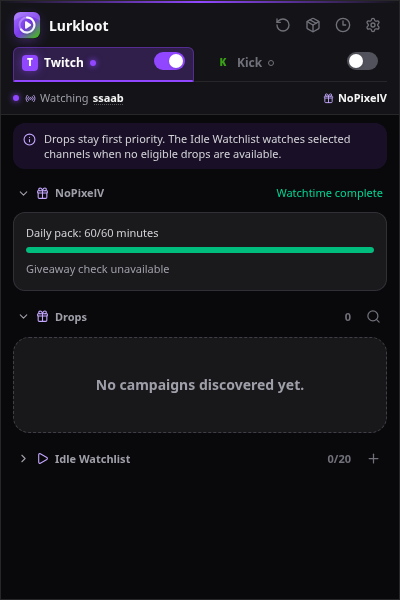
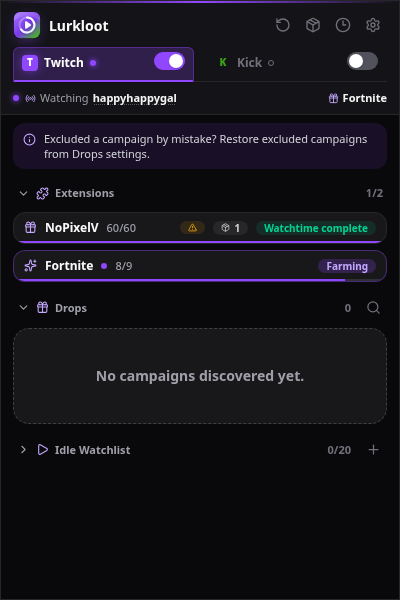
fix(twitch-extensions): bound completion reprobes and retain pack retries

diff --git a/packages/extension/src/extensions/host.ts b/packages/extension/src/extensions/host.ts
@@ -19,12 +19,10 @@ export function createTwitchExtensionHost(options: {
   let generation = 0;
   const allowed = new Set<TwitchExtensionProviderId>();
   const completedUntil = new Map<TwitchExtensionProviderId, number>();
-  // Providers observed complete for this viewer. Unlike the short reprobe
-  // cooldown and the per-channel summaries, this survives ordinary authority
-  // changes (Twitch toggles, pauses, channel switches) so a finished provider
-  // is never revisited just to rediscover completion and then released again.
-  // Only logout, provider disable/revocation and reset forget it.
-  const knownComplete = new Set<TwitchExtensionProviderId>();
+  // Retain completion through ordinary transitions, but allow a bounded
+  // reprobe so new packs/giveaways and daily resets cannot be starved by the
+  // other provider. Thirty minutes avoids switching on every scheduler tick.
+  const knownComplete = new Map<TwitchExtensionProviderId, number>();
   let lastCompletedNoPixelChannel: string | undefined;
   const summaries: Partial<Record<TwitchExtensionProviderId, TwitchExtensionSummary>> = {};
   let channel: { username: string; displayName?: string } | undefined;
@@ -35,8 +33,16 @@ export function createTwitchExtensionHost(options: {
     report: (id, report) => {
       const previous = summaries[id];
       if (id === "nopixel" && report.status === "complete" && channel) lastCompletedNoPixelChannel = channel.username;
-      if (report.status === "complete") knownComplete.add(id);
-      else if (report.status === "farming" && report.progress.some((progress) => progress.earned < progress.required)) knownComplete.delete(id);
+      if (report.status === "complete") {
+        const now = options.source.now();
+        const nextDay = (Math.floor(now / 86_400_000) + 1) * 86_400_000;
+        knownComplete.set(id, id === "nopixel" ? Math.min(now + 30 * 60_000, nextDay) : now + 30 * 60_000);
+      } else if (report.status === "farming") knownComplete.delete(id);
+      else if ((report.status === "error" || report.status === "unavailable") && knownComplete.has(id)) {
+        // A failed due reprobe consumes its turn too; it must not repeatedly
+        // evict another earning provider while walking unavailable channels.
+        knownComplete.set(id, options.source.now() + 30 * 60_000);
+      }
       if (report.status === "complete" && (completedUntil.get(id) ?? 0) <= options.source.now()) completedUntil.set(id, options.source.now() + 5 * 60_000);
       summaries[id] = { ...report, ...(channel ? { channel: { ...channel } } : {}), updatedAt: new Date(options.source.now()).toISOString() };
       if ((report.status === "error" || report.status === "unavailable")
@@ -75,9 +81,14 @@ export function createTwitchExtensionHost(options: {
     const session = state.sessions.twitch;
     const holderId = session.status === "watching" ? session.supplementalWatch?.id : undefined;
     const holderSummary = holderId ? summaries[holderId as TwitchExtensionProviderId] : undefined;
-    const holderEarning = holderId !== undefined && !knownComplete.has(holderId as TwitchExtensionProviderId)
+    const nowForRanking = options.source.now();
+    const holderEarning = holderId !== undefined && (knownComplete.get(holderId as TwitchExtensionProviderId) ?? 0) <= nowForRanking
       && (!holderSummary || !["complete", "error", "unavailable"].includes(holderSummary.status));
-    const rank = (id: TwitchExtensionProviderId) => holderEarning && id === holderId ? 0 : knownComplete.has(id) ? 2 : 1;
+    const rank = (id: TwitchExtensionProviderId) => {
+      const completed = knownComplete.get(id);
+      if (completed !== undefined && completed <= nowForRanking) return -1;
+      return holderEarning && id === holderId ? 0 : completed !== undefined ? 2 : 1;
+    };
     const providers = [...twitchExtensionProviders].sort((a, b) => rank(a.id) - rank(b.id));
     for (const provider of providers) {
       if (!settings.twitchExtensions[provider.id].enabled || !options.drivers[provider.id]) continue;

diff --git a/packages/extension/tests/twitchExtensionHost.test.ts b/packages/extension/tests/twitchExtensionHost.test.ts
@@ -157,6 +157,33 @@ describe("background tabless provider host", () => {
       s.settings().twitchExtensions.fortnite.enabled = true;
     }
 
+    it.each([10 * 60_000 + 1, 30 * 60_000 + 1, 24 * 60 * 60_000])("bounds completed provider deferral to %i milliseconds", async (elapsed) => {
+      const s = setup(); s.enableTwitch();
+      const now = Date.UTC(2026, 8, 14, 23, 50); s.source.now.mockReturnValue(now);
+      withDirectory(s, now);
+      s.drivers.nopixel = async (_session, emit) => { emit({ status: "complete", reasonCode: "rewards-complete", progress: [{ key: "daily-pack", earned: 60, required: 60 }], pending: [] }); return { stop: s.stop }; };
+      await s.host.setEnabled("nopixel", true);
+      s.host.invalidate({ preserveCompleted: true });
+      s.state.sessions.twitch = { platform: "twitch", status: "watching", offlineChecks: 0, watchMode: "tabless", supplementalWatch: { id: "fortnite", tablessOnly: true }, channel: { platform: "twitch", username: "happyhappygal", url: "https://www.twitch.tv/happyhappygal", channelId: "789", live: true } };
+      s.source.now.mockReturnValue(now + elapsed);
+      expect(await s.host.chooseWatchTarget(s.settings(), s.state)).toMatchObject({ id: "nopixel" });
+    });
+
+    it("consumes due reprobe priority after an unavailable outcome", async () => {
+      const s = setup(); s.enableTwitch();
+      const now = Date.UTC(2026, 8, 14, 12); s.source.now.mockReturnValue(now);
+      withDirectory(s, now);
+      s.drivers.nopixel = async (_session, emit) => { emit({ status: "complete", reasonCode: "rewards-complete", progress: [{ key: "daily-pack", earned: 60, required: 60 }], pending: [] }); return { stop: s.stop }; };
+      await s.host.setEnabled("nopixel", true);
+      s.host.invalidate({ preserveCompleted: true });
+      s.source.now.mockReturnValue(now + 30 * 60_000 + 1);
+      s.drivers.nopixel = async (_session, emit) => { emit({ status: "unavailable", reasonCode: "channel-not-connected", progress: [], pending: [] }); return { stop: s.stop }; };
+      await s.host.reconcile();
+      expect(s.host.snapshot().nopixel?.status).toBe("unavailable");
+      s.state.sessions.twitch = { platform: "twitch", status: "watching", offlineChecks: 0, watchMode: "tabless", supplementalWatch: { id: "fortnite", tablessOnly: true }, channel: { platform: "twitch", username: "happyhappygal", url: "https://www.twitch.tv/happyhappygal", channelId: "789", live: true } };
+      expect(await s.host.chooseWatchTarget(s.settings(), s.state)).toMatchObject({ id: "fortnite" });
+    });
+
     it("keeps the provider still earning on its channel instead of reprobing another", async () => {
       const s = setup(); s.enableTwitch();
       const now = Date.now(); s.source.now.mockReturnValue(now);

diff --git a/packages/popup-ui/src/twitchExtensions.tsx b/packages/popup-ui/src/twitchExtensions.tsx
@@ -53,7 +53,7 @@ function statusTone(summary: TwitchExtensionSummary | undefined): PillTone {
   }
 }
 
-interface Badge { key: string; icon: LucideIcon; tone: PillTone; label: string }
+interface Badge { key: string; icon: LucideIcon; tone: PillTone; label: string; count?: number }
 
 // Secondary states render as icon-only badges; the label is the tooltip and
 // accessible name so the row stays one line tall.
@@ -61,7 +61,7 @@ function StatusBadge({ badge }: { badge: Badge }) {
   const Icon = badge.icon;
   return (
     <span role="img" aria-label={badge.label} title={badge.label} className="inline-flex">
-      <Pill tone={badge.tone}><Icon size={9} /></Pill>
+      <Pill tone={badge.tone}><Icon size={9} />{badge.count !== undefined ? <span className="tabular-nums">{badge.count}</span> : null}</Pill>
     </span>
   );
 }
@@ -79,7 +79,7 @@ function providerDetails(provider: TwitchExtensionProviderId, summary: TwitchExt
     if (giveaway?.state === "open") badges.push({ key: "giveaway", icon: Gift, tone: "accent", label: t("extensionGiveawayOpen") });
     if (giveaway?.state === "blocked") badges.push({ key: "giveaway", icon: AlertTriangle, tone: "warning", label: t("extensionGiveawayUnavailable") });
     const unopened = summary.progress.find((item) => item.key === "rewards");
-    if (unopened) badges.push({ key: "packs", icon: Package, tone: "muted", label: t("extensionUnopenedPacks", String(unopened.required)) });
+    if (unopened) badges.push({ key: "packs", icon: Package, tone: "muted", label: t("extensionUnopenedPacks", String(unopened.required)), count: unopened.required });
     if (summary.pending.some((item) => item.key === "completion" && item.state === "blocked")) badges.push({ key: "pack-check", icon: AlertTriangle, tone: "warning", label: t("extensionPackCheckUnavailable") });
   } else {
     const captures = summary.progress.find((item) => item.key === "phase-captures") ?? summary.progress[0];

diff --git a/packages/extension/tests/popupAuthHealth.test.tsx b/packages/extension/tests/popupAuthHealth.test.tsx
@@ -43,6 +43,7 @@ async function mountWithSnapshots(
     settings: {
       ...base.settings,
       running: true,
+      twitchExtensions: { ...base.settings.twitchExtensions, nopixel: { ...base.settings.twitchExtensions.nopixel, enabled: Boolean(twitchSession?.supplementalWatch) } },
       platform: {
         ...base.settings.platform,
         twitch: { ...base.settings.platform.twitch, enabled: true },
@@ -142,6 +143,16 @@ describe("popup authentication health", () => {
     expect(hero).not.toBeNull();
     expect(hero?.textContent).toContain("Starting");
     expect(hero?.textContent).toContain("Starting automation...");
+  });
+
+  it.each(["paused", "idle"] as const)("does not mark a retained provider active when session is %s", async (status) => {
+    const { container } = await mountWithSnapshots([{ status: "healthy" }], {
+      status, watchMode: "tabless", supplementalWatch: { id: "nopixel", tablessOnly: true },
+    });
+    const provider = container.querySelector('article[aria-label="NoPixelV"]');
+    expect(provider).not.toBeNull();
+    expect(provider?.hasAttribute("aria-current")).toBe(false);
+    expect(provider?.querySelector(".animate-pulse")).toBeNull();
   });
 
   it("keeps a stale disabled session paused after automation is re-enabled", async () => {

diff --git a/packages/popup-ui/src/Popup.tsx b/packages/popup-ui/src/Popup.tsx
@@ -831,7 +831,7 @@ export function Popup({ adapter, initialState }: { adapter: PopupAdapter; initia
                   ) : null}
                 </AnimatePresence>
                 {settings.showTips ? <TipsBanner initialIndex={preview ? 0 : undefined} preview={preview} /> : null}
-                {platform === "twitch" ? <TwitchExtensionDrops settings={settings} summaries={snapshot.state.twitchExtensions} activeProvider={snapshot.state.sessions.twitch.supplementalWatch?.id} onSetup={() => adapter.openLink("https://help.twitch.tv/s/article/how-to-configure-extensions")} /> : null}
+                {platform === "twitch" ? <TwitchExtensionDrops settings={settings} summaries={snapshot.state.twitchExtensions} activeProvider={snapshot.state.sessions.twitch.status === "watching" && snapshot.state.sessions.twitch.watchMode === "tabless" ? snapshot.state.sessions.twitch.supplementalWatch?.id : undefined} onSetup={() => adapter.openLink("https://help.twitch.tv/s/article/how-to-configure-extensions")} /> : null}
                 {criticalFailureReason ? (
                   <CriticalFailurePanel
                     platform={platform}

diff --git a/packages/extension/tests/nopixelProvider.test.ts b/packages/extension/tests/nopixelProvider.test.ts
@@ -189,3 +189,11 @@ it("rejects unsafe numeric pack IDs and diagnoses compatibility without payloads
   expect(JSON.stringify(diagnostic.mock.calls)).not.toContain("private");
   driver.stop();
 });
+
+it("keeps auto-opening work pending when inventory fails after watchtime completes", async () => {
+  const s = setup(); const base = s.fetcher.getMockImplementation()!;
+  s.fetcher.mockImplementation(async (url, init) => url.endsWith("/progress") ? Response.json({ watch_time_earned: 60, watch_time_required: 60 }) : url.endsWith("/cards/packs") ? new Response(null, { status: 503 }) : base(url, init));
+  const driver = await createNoPixelDriver(s.fetcher, s.joined, Date.now, () => {}, { autoOpenPacks: true })(session, s.emit);
+  expect(s.emit).toHaveBeenLastCalledWith(expect.objectContaining({ status: "farming", reasonCode: "collecting", pending: expect.arrayContaining([{ key: "completion", state: "blocked" }]) }));
+  driver.stop();
+});

diff --git a/packages/extension/src/extensions/nopixel/driver.ts b/packages/extension/src/extensions/nopixel/driver.ts
@@ -148,6 +148,7 @@ export function createNoPixelDriver(fetcher: Fetch, onJoined: () => void = () =>
               diagnostic(`NoPixelV pack delivery/opening unavailable: ${reason}`);
             }
             report.pending.push({ key: "completion", state: "blocked" });
+            if (options.autoOpenPacks) { report.status = "farming"; report.reasonCode = "collecting"; }
           }
         }
         if (active()) emit(report);

diff --git a/docs/twitch-extensions/acceptance.md b/docs/twitch-extensions/acceptance.md
@@ -10,7 +10,7 @@ Audited implementation: `a6aacaf5`. Latest CI run [34751942993](https://github.c
 | Authorization without Twitch tabs or frames | `session.ts` uses selected-channel normal Twitch GQL authorization; session/runtime tests require no tab APIs. User popup probe confirmed active, authenticated, linked authorization for both providers. | Authenticated acquisition proven; vendor earning is separate. |
 | Privileged credential isolation | Session callbacks, driver cancellation and report allowlists; `twitchExtensionSession.test.ts`, `twitchExtensionReports.test.ts` and runtime credential-carrying report rejection. No persisted JWTs, vendor properties, pack IDs or cards. | Implemented and tested. |
 | Optional provider access and independent opt-ins | Gesture-time scoped backend grants; background revalidation, revocation and race tests; settings default providers, takeovers and pack opening off. | Implemented and tested; installed-browser lifecycle remains open. |
-| Fully tabless farming and eligible-channel switching | Background host provides independent supplemental targets to core; bounded batched directory/installation discovery; scheduler supplemental tests prohibit tab fallback, honor pause and exclusions. NoPixelV completion probes rotate through candidates. | Implemented and tested; authenticated earning growth remains open. |
+| Fully tabless farming and eligible-channel switching | Background host provides independent supplemental targets to core; bounded batched directory/installation discovery; scheduler supplemental tests prohibit tab fallback, honor pause and exclusions. Eligible drops precede extension targets. NoPixelV completion probes rotate through candidates; completion defers to another earning extension for at most 30 minutes, bounded by the next UTC day for NoPixelV. Failed due probes consume their turn. Auto-opening inventory failures remain pending work. | Implemented and tested; authenticated earning growth remains open. |
 | NoPixelV daily watchtime | Normal Bearer initialization ping, setup and authoritative daily counter reads. Screenshot showed 60/60. | Counter read proven; growth during tabless farming not proven. |
 | NoPixelV giveaway joining | Join followed by authoritative membership refetch; cancellation and ambiguous submission guards. User tabless log confirms `giveaway_joined` on ssaab. HTTP 404 lookup blocks only giveaway reporting. | Authenticated entry proven; later browser lifecycle behavior remains open. |
 | NoPixelV reward delivery and claiming | Owned pack-list read separately from daily completion; explicit automatic-opening opt-in, maximum five unattempted packs per refresh. Valid card response plus authoritative inventory removal required before `pack_opened` activity. Tests cover opt-in, retries, batches and late cancellation. | Implemented and tested; actual delivery and opening not proven live. |
